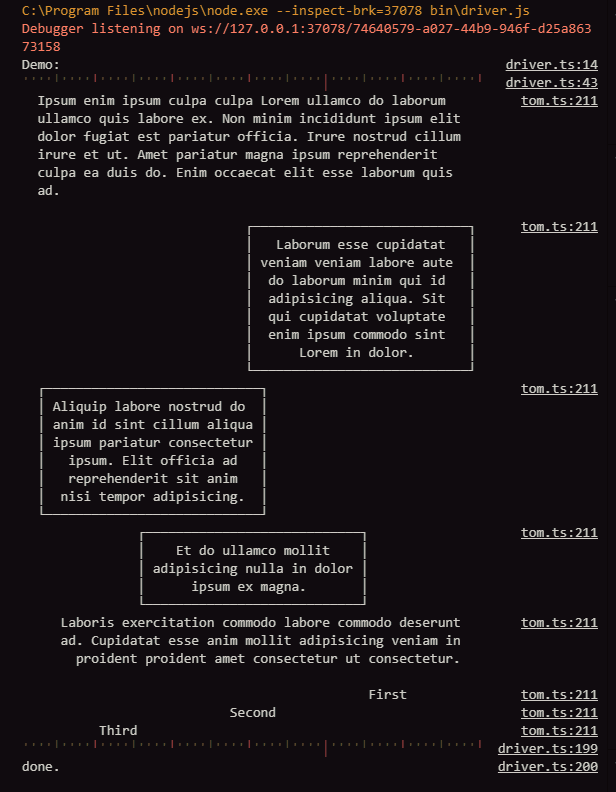
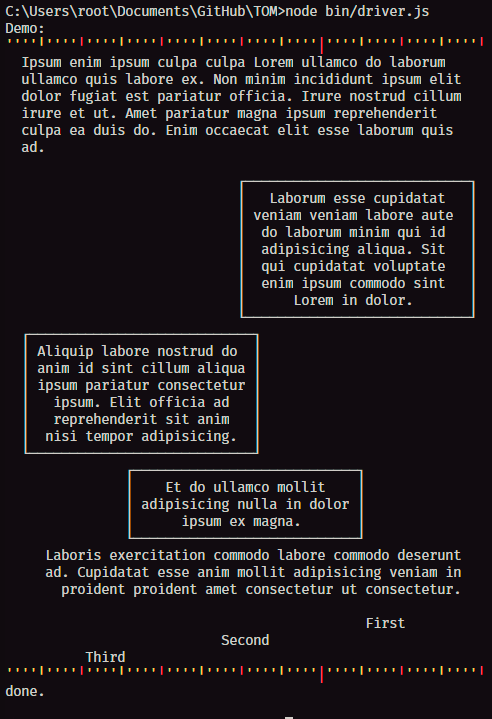
update images with terminal output

diff --git a/bin/driver.js b/bin/driver.js
@@ -23,7 +23,7 @@ let document = new tom_1.Document();
 document.properties.width = document_width;
 const tape = new Tape(document_width).value;
 console.log(tape);
-let tome = new tom_1.TOM(document, undefined, true);
+let tome = new tom_1.TOM(document, undefined, false);
 document.push(new tom_1.Element({
     content: "Ipsum enim ipsum culpa culpa Lorem ullamco do laborum ullamco quis labore ex. Non minim incididunt ipsum elit dolor fugiat est pariatur officia. Irure nostrud cillum irure et ut. Amet pariatur magna ipsum reprehenderit culpa ea duis do. Enim occaecat elit esse laborum quis ad.",
     properties: new tom_1.Properties({

diff --git a/src/driver.ts b/src/driver.ts
@@ -42,7 +42,7 @@ document.properties.width = document_width;
 const tape = new Tape(document_width).value;
 console.log(tape);
 
-let tome = new TOM(document, undefined, true);
+let tome = new TOM(document, undefined, false);
 
 document.push(
   new Element({
